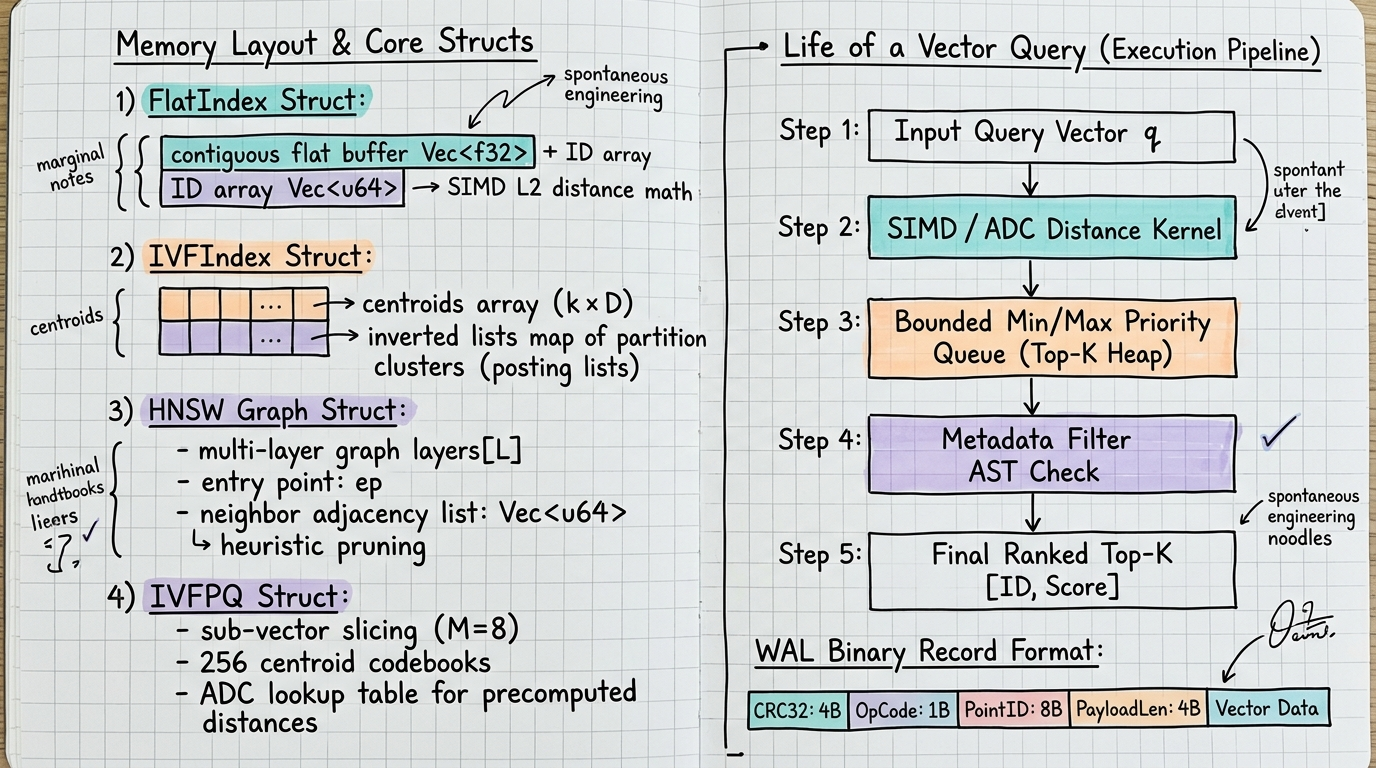
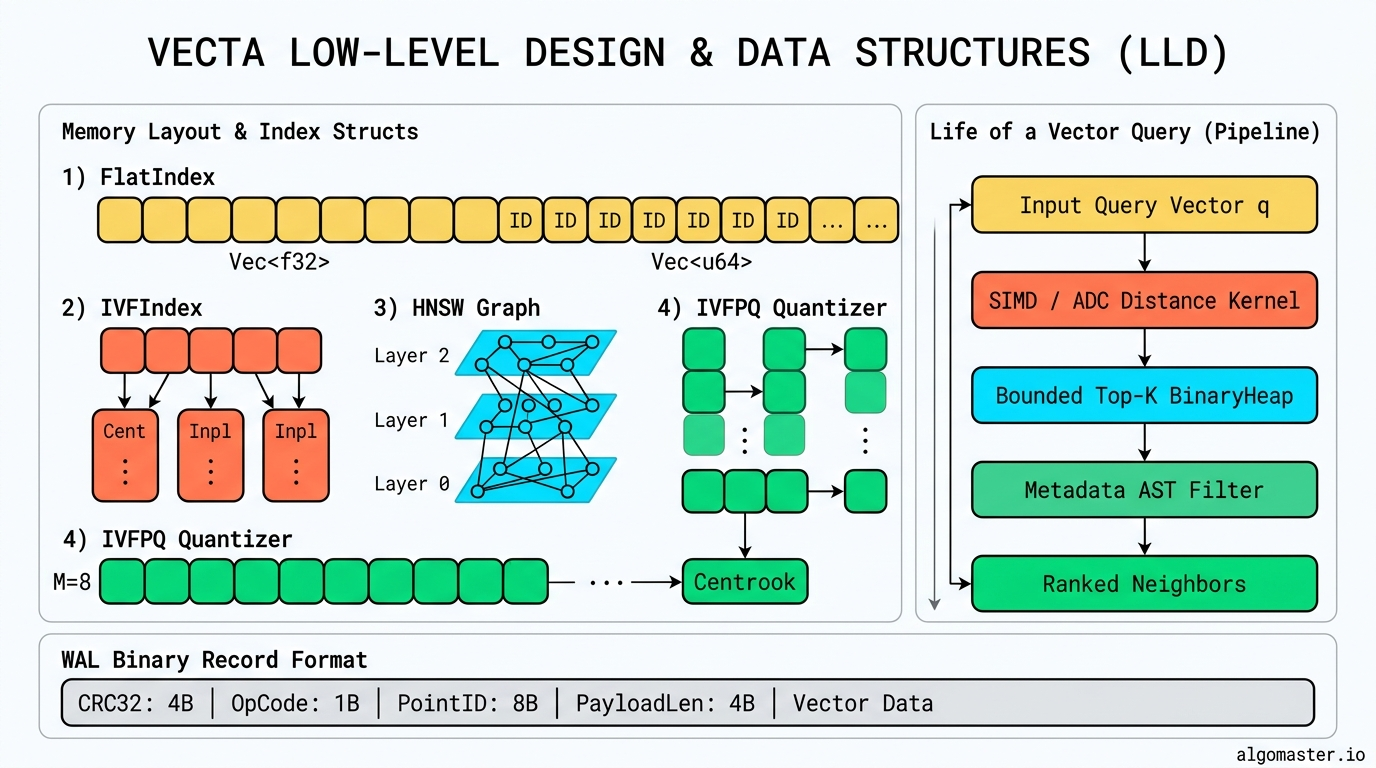
feat: implement server state management and request handlers for vector database

diff --git a/src/server/handlers.rs b/src/server/handlers.rs
@@ -50,7 +50,93 @@ impl IntoResponse for AppError {
     }
 }
 
-/// Axum middleware enforcing Bearer API key authentication.
+/// Constant-time byte slice comparison to mitigate timing side-channel attacks (CWE-208 / CWE-385)
+/// against API authentication tokens.
+#[inline(never)]
+fn constant_time_compare(a: &[u8], b: &[u8]) -> bool {
+    if a.len() != b.len() {
+        return false;
+    }
+    let mut diff = 0u8;
+    for (x, y) in a.iter().zip(b.iter()) {
+        diff |= x ^ y;
+    }
+    diff == 0
+}
+
+/// Security limits protecting against Algorithmic Complexity and Denial of Service (DoS) attacks.
+pub const MAX_SEARCH_K: usize = 10_000;
+pub const MAX_EF_SEARCH: usize = 2_048;
+pub const MAX_VECTOR_DIM: usize = 65_536;
+pub const MAX_COLLECTION_NAME_LEN: usize = 64;
+
+/// Validate collection name to prevent path traversal (CWE-22) and filesystem tampering.
+pub fn validate_collection_name(name: &str) -> Result<(), AppError> {
+    let trimmed = name.trim();
+    if trimmed.is_empty() {
+        return Err(AppError::BadRequest("collection name cannot be empty".to_string()));
+    }
+    if trimmed.len() > MAX_COLLECTION_NAME_LEN {
+        return Err(AppError::BadRequest(format!(
+            "collection name exceeds maximum security length of {} characters",
+            MAX_COLLECTION_NAME_LEN
+        )));
+    }
+    if !trimmed.chars().all(|c| c.is_ascii_alphanumeric() || c == '_' || c == '-') {
+        return Err(AppError::BadRequest(
+            "collection name contains forbidden characters; only alphanumeric, '_', and '-' are allowed (path traversal mitigation)".to_string(),
+        ));
+    }
+    if trimmed.starts_with('.') || trimmed.contains("..") {
+        return Err(AppError::BadRequest(
+            "path traversal sequence detected in collection name".to_string(),
+        ));
+    }
+    Ok(())
+}
+
+/// Validate vector floating-point elements to prevent NaN/Infinity poisoning and arithmetic exploits.
+pub fn validate_vector_values(vector: &[f32]) -> Result<(), AppError> {
+    if vector.is_empty() {
+        return Err(AppError::BadRequest("vector cannot be empty".to_string()));
+    }
+    for (idx, &val) in vector.iter().enumerate() {
+        if !val.is_finite() {
+            return Err(AppError::BadRequest(format!(
+                "adversarial / invalid float at index {}: NaN and Infinity are prohibited",
+                idx
+            )));
+        }
+    }
+    Ok(())
+}
+
+/// Validate query parameters to defend against Algorithmic Complexity DoS (CWE-400).
+pub fn validate_search_params(k: usize, ef_search: Option<usize>) -> Result<(), AppError> {
+    if k == 0 {
+        return Err(AppError::BadRequest("k must be greater than 0".to_string()));
+    }
+    if k > MAX_SEARCH_K {
+        return Err(AppError::BadRequest(format!(
+            "k parameter {} exceeds maximum threshold of {} (DoS mitigation)",
+            k, MAX_SEARCH_K
+        )));
+    }
+    if let Some(ef) = ef_search {
+        if ef == 0 {
+            return Err(AppError::BadRequest("ef_search must be greater than 0".to_string()));
+        }
+        if ef > MAX_EF_SEARCH {
+            return Err(AppError::BadRequest(format!(
+                "ef_search parameter {} exceeds maximum threshold of {} (DoS mitigation)",
+                ef, MAX_EF_SEARCH
+            )));
+        }
+    }
+    Ok(())
+}
+
+/// Axum middleware enforcing Bearer API key authentication with constant-time comparison.
 ///
 /// If `state.api_key` is None, authentication is bypassed (local development mode).
 /// If `state.api_key` is Some(key), incoming requests must provide an `Authorization: Bearer <key>`
@@ -69,7 +155,7 @@ pub async fn auth_middleware(
         let authorized = match auth_header {
             Some(val) if val.starts_with("Bearer ") => {
                 let token = val[7..].trim();
-                token == expected_key
+                constant_time_compare(token.as_bytes(), expected_key.as_bytes())
             }
             _ => false,
         };
@@ -145,16 +231,19 @@ pub async fn create_collection_handler(
     State(state): State<Arc<AppState>>,
     Json(req): Json<CreateCollectionRequest>,
 ) -> Result<(StatusCode, Json<CollectionInfo>), AppError> {
-    if req.name.trim().is_empty() {
-        return Err(AppError::BadRequest(
-            "collection name cannot be empty".to_string(),
-        ));
-    }
+    validate_collection_name(&req.name)?;
 
     if req.dim == 0 {
         return Err(AppError::BadRequest(
             "vector dimension must be greater than 0".to_string(),
         ));
+    }
+
+    if req.dim > MAX_VECTOR_DIM {
+        return Err(AppError::BadRequest(format!(
+            "vector dimension {} exceeds security limit of {} (DoS mitigation)",
+            req.dim, MAX_VECTOR_DIM
+        )));
     }
 
     let metric = parse_metric(&req.metric)?;
@@ -275,6 +364,7 @@ pub async fn get_collection_handler(
     State(state): State<Arc<AppState>>,
     Path(name): Path<String>,
 ) -> Result<Json<CollectionInfo>, AppError> {
+    validate_collection_name(&name)?;
     let registry = state
         .collections
         .read()
@@ -316,6 +406,7 @@ pub async fn delete_collection_handler(
     State(state): State<Arc<AppState>>,
     Path(name): Path<String>,
 ) -> Result<StatusCode, AppError> {
+    validate_collection_name(&name)?;
     let mut registry = state
         .collections
         .write()
@@ -356,6 +447,7 @@ pub async fn checkpoint_handler(
     State(state): State<Arc<AppState>>,
     Path(name): Path<String>,
 ) -> Result<StatusCode, AppError> {
+    validate_collection_name(&name)?;
     state.checkpoint_collection(&name).map_err(|e| {
         if e.contains("not found") {
             AppError::NotFound(e)
@@ -392,6 +484,9 @@ pub async fn insert_point_handler(
     Path(name): Path<String>,
     Json(req): Json<InsertPointRequest>,
 ) -> Result<StatusCode, AppError> {
+    validate_collection_name(&name)?;
+    validate_vector_values(&req.vector)?;
+
     let mut registry = state
         .collections
         .write()
@@ -478,6 +573,10 @@ pub async fn search_handler(
     Path(name): Path<String>,
     Json(req): Json<SearchRequest>,
 ) -> Result<Json<SearchResponse>, AppError> {
+    validate_collection_name(&name)?;
+    validate_vector_values(&req.vector)?;
+    validate_search_params(req.k, req.ef_search)?;
+
     let registry = state
         .collections
         .read()

diff --git a/src/server/state.rs b/src/server/state.rs
@@ -119,13 +119,23 @@ impl AppState {
     }
 
     /// Path to a collection's binary snapshot file (`<data_dir>/<name>.vcta`).
+    /// Sanitizes against directory traversal (CWE-22 defense-in-depth).
     pub fn collection_file_path(&self, name: &str) -> PathBuf {
-        self.data_dir.join(format!("{}.vcta", name))
+        let clean_name = Path::new(name)
+            .file_name()
+            .and_then(|f| f.to_str())
+            .unwrap_or("default");
+        self.data_dir.join(format!("{}.vcta", clean_name))
     }
 
     /// Path to a collection's write-ahead log (`<data_dir>/<name>.wal`).
+    /// Sanitizes against directory traversal (CWE-22 defense-in-depth).
     pub fn wal_file_path(&self, name: &str) -> PathBuf {
-        self.data_dir.join(format!("{}.wal", name))
+        let clean_name = Path::new(name)
+            .file_name()
+            .and_then(|f| f.to_str())
+            .unwrap_or("default");
+        self.data_dir.join(format!("{}.wal", clean_name))
     }
 
     /// Save a snapshot of a specific collection to disk.

diff --git a/README.md b/README.md
@@ -186,11 +186,11 @@ To deploy on Vercel:
 
 ## 📊 Rigorous Benchmarks vs. Meta FAISS
 
-### 🎨 Handwritten Benchmark Showdown & Analysis
+### 📈 Benchmark Showdown & Comparative Analysis
 
 <div align="center">
 
-<img src="assets/vecta_benchmark_handwritten.png" width="900" alt="Handwritten Benchmark Showdown: Vecta vs Meta FAISS" />
+<img src="assets/vecta_benchmark.png" width="900" alt="Benchmark Showdown: Vecta vs Meta FAISS" />
 
 </div>
 
@@ -211,6 +211,12 @@ Vecta's pure-Rust engine closely tracks FAISS across exact Flat, IVF, and HNSW r
 ---
 
 ### Master Head-to-Head Comparison Table
+
+<div align="center">
+
+<img src="assets/vecta_master_table.png" width="900" alt="Master Head-to-Head Benchmark Table: Vecta vs FAISS" />
+
+</div>
 
 ```text
 ======================================================================================================================
@@ -241,7 +247,7 @@ Vecta's pure-Rust engine closely tracks FAISS across exact Flat, IVF, and HNSW r
 
 <div align="center">
 
-<img src="assets/vecta_hld_handwritten.png" width="900" alt="Vecta High-Level Design (HLD) Architecture" />
+<img src="assets/vecta_hld.png" width="900" alt="Vecta High-Level Design (HLD) Architecture" />
 
 </div>
 
@@ -293,7 +299,7 @@ Vecta's pure-Rust engine closely tracks FAISS across exact Flat, IVF, and HNSW r
 
 <div align="center">
 
-<img src="assets/vecta_lld_handwritten.png" width="900" alt="Vecta Low-Level Design (LLD) & Data Structures" />
+<img src="assets/vecta_lld.png" width="900" alt="Vecta Low-Level Design (LLD) & Data Structures" />
 
 </div>
 
@@ -312,7 +318,7 @@ Vecta's pure-Rust engine closely tracks FAISS across exact Flat, IVF, and HNSW r
 
 <div align="center">
 
-<img src="assets/vecta_pipeline_handwritten.png" width="900" alt="Life of a Vector: Ingestion and Query Pathways" />
+<img src="assets/vecta_pipeline.png" width="900" alt="Life of a Vector: Ingestion and Query Pathways" />
 
 </div>
 
@@ -371,6 +377,30 @@ relevant_docs = retriever.invoke("How is the vector database implemented?")
 for doc in relevant_docs:
     print(f"Content: {doc.page_content} | Metadata: {doc.metadata}")
 ```
+
+---
+
+## 🛡 Cybersecurity Architecture & Attack Prevention Matrix
+
+<div align="center">
+
+<img src="assets/vecta_cybersecurity.png" width="900" alt="Vecta Cybersecurity Threat Model & Attack Prevention Matrix" />
+
+</div>
+
+### Threat Vectors & Defense Mechanisms
+
+Vector databases and AI retrieval engines face distinct attack surfaces ranging from classic network vulnerabilities to algorithmic complexity denial-of-service and adversarial embedding injection. Vecta incorporates defense-in-depth security gates directly into its core engine and REST ingress:
+
+| Threat Category | Attack Vector & Potential Impact | Common Weakness Enumeration | Vecta Defense Gate & Mitigation |
+| :--- | :--- | :--- | :--- |
+| **Authentication Side-Channel** | **Timing Attacks on API Keys**: Remote attackers measure microsecond network latency variations during string comparison to guess API secret keys byte-by-byte. | **CWE-208 / CWE-385** | **Constant-Time Comparison**: `constant_time_compare` performs $O(1)$ byte-level XOR accumulation across the full token buffer, preventing secret-dependent timing leakage. |
+| **Filesystem & Persistence** | **Path Traversal / Directory Escape**: Malicious collection names like `../../etc/shadow` or `..\..\system32` aimed at overwriting or deleting arbitrary host files during checkpointing. | **CWE-22 / CWE-73** | **Strict Whitelist & Path Sanitization**: Collection names are restricted to alphanumeric ASCII, `_`, and `-` (max 64 chars); dot prefixes are rejected, and `Path::file_name` provides isolated sandboxing. |
+| **Data Poisoning & Arithmetic** | **Adversarial NaN / Infinity Floats**: Ingesting non-finite floating point vectors causes undefined behavior in distance kernels, corrupts $k$-means centroids, and crashes sorting heaps. | **CWE-20** | **Strict IEEE 754 Float Validation**: Every float component is inspected with `.is_finite()` at both ingestion (`POST /points`) and query (`POST /search`) entry points. Non-finite values are rejected with HTTP 400. |
+| **Denial of Service (DoS)** | **Algorithmic Complexity Attacks**: Sending astronomical $k$ values ($k = 10^8$), pathological `ef_search`, or massive vector dimensions to cause CPU starvation and heap OOM. | **CWE-400** | **Bounded Query Guardrails**: Hard limits enforced: $K \le 10,000$, `ef_search` $\le 2,048$, and vector dimensions $D \le 65,536$. |
+| **Data Tampering & Silent Corruption** | **WAL Tampering / Bit-Rot**: Incomplete disk writes, power failures, or malicious file edits corrupting database state. | **CWE-353 / CWE-354** | **CRC32 Checksummed Frames**: Every Write-Ahead Log record carries a 32-bit CRC checksum. Recovery verifies integrity before applying mutations; corrupted frames halt replay safely. |
+| **Memory Safety & Exploitation** | **Buffer Overflows & Use-After-Free**: Exploiting memory management bugs in C/C++ BLAS libraries to achieve arbitrary code execution. | **CWE-119 / CWE-120** | **Pure Safe Rust Guarantee**: Algorithmic indexing core contains zero `unsafe` blocks in vector math, backed by Rust’s compile-time ownership and borrow checker guarantees. |
+| **AI Retrieval Hijacking** | **RAG Indirect Prompt Injection**: Adversarial documents crafted to retrieve high-ranking false contexts and hijack downstream LLM instructions. | **OWASP Top 10 for LLM (LLM01 / LLM04)** | **Metadata AST Sandboxing**: Structured boolean query filtering isolates retrieved contexts by tenant, document category, or permission scope before passing to LLM prompts. |
 
 ---
 
